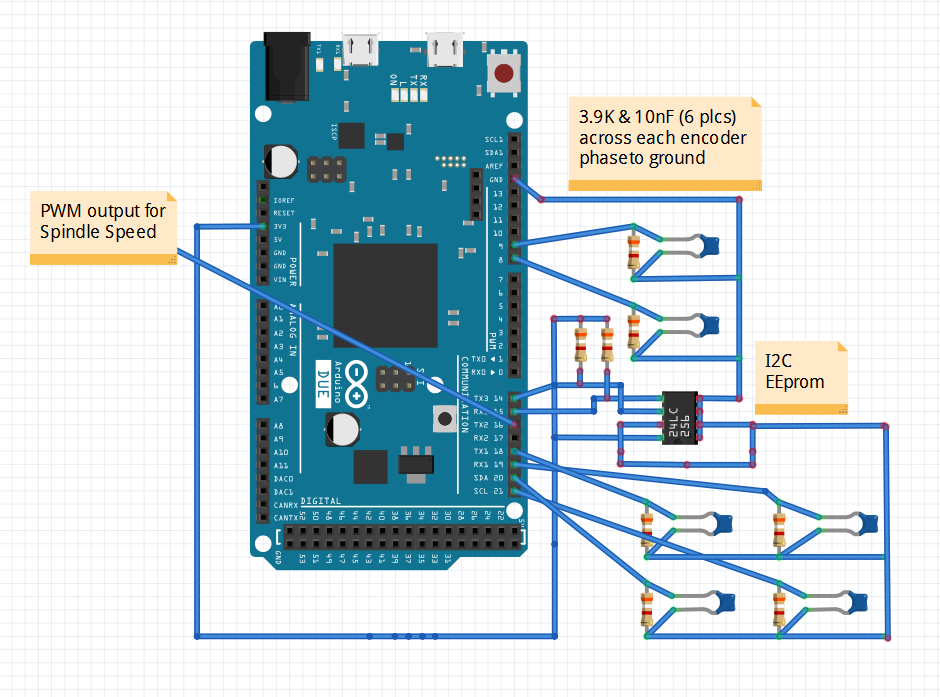
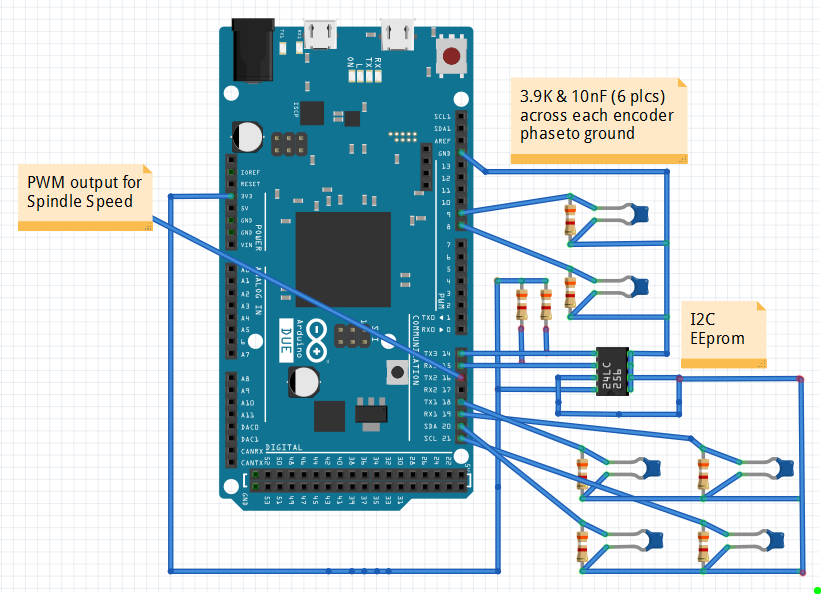
Corrected pinout on rendering for 24LC256

Changed region(s): [[0.0, 0.0303, 1.0, 1.0]]

diff --git a/README.md b/README.md
@@ -25,7 +25,7 @@ First clone the Firmware repository, then install and setup the Arduino IDE.
 # Maslow-Due Electronics
 The electronics which powers the Maslow-Due CNC Machine System is based on the original Maslow-CNC shield board. The Maslow-Due (DUE) requires that the Arduino Mega2560 board (standard to the MaslowCNC) be upgraded to an Arduino Due. Since the DUE runs at a lower power supply voltage (3.3V instead of 5V) shunt resistors, in parallel with each motor phase, are required to provide safe operating voltages from the encoders to the I/O pins of the DUE. Additional filter caps are also required to prevent positioning errors from noise spikes on the encoder cables. An **EEPROM must** be added to store the non-volatile parameters (the firmware will not work without it).
 
-![Circuit Adaptations](https://imgur.com/GCqeNKl.png)
+![Circuit Adaptations](https://imgur.com/BIu1jCN.png)
 
 **Note:** _the board ID pins in the lower-left corner of the motor shield should be removed or not allowed to pass 5V to the Arduino Due. Cutting the trace as shown below also stops the 5V from getting back to the I/O pins:_
 
